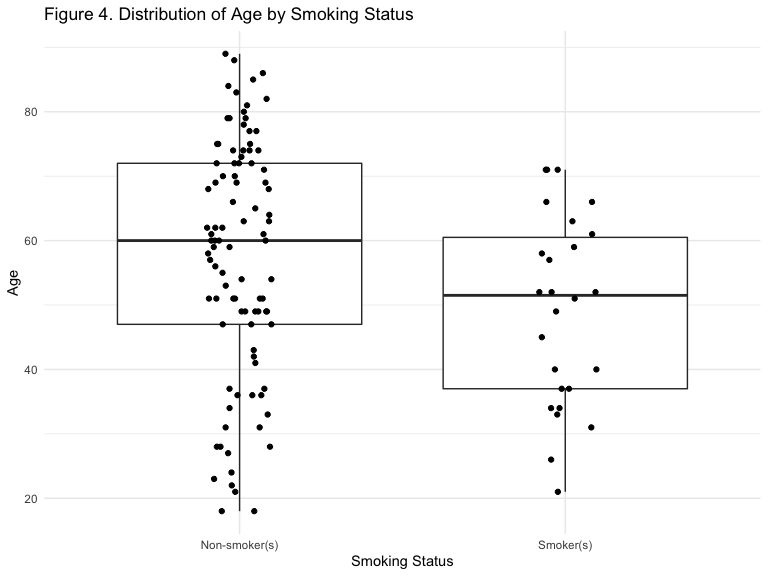
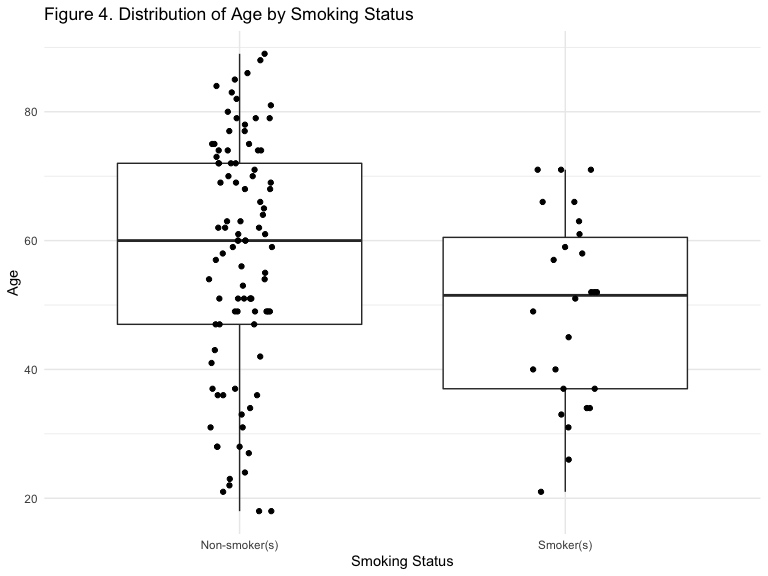
Commit 4

diff --git a/Analysis-Plan.md b/Analysis-Plan.md
@@ -22,16 +22,17 @@ As such, my research question is as follows:
 
 ### The dataset
 
-Baseline data collection for this study took place between 2019. Data
-collection methods included: surveys with residents, focus groups, and
-environmental assessments. The surveys distributed to study participants
-assessed perceptions of housing quality, smoking behaviors, perceptions
-of the smoke-free housing policy, exposure to secondhand smoke, social
-connectedness, psychosocial outcomes and chronic disease outcomes. As a
-result of the data collection process, 124 resident surveys were
-collected at the Betances site. The data used in this analysis is the
+Baseline data collection for this study took place between 2018 and
+2019. Data collection methods included: surveys with residents, focus
+groups, and environmental assessments. The surveys distributed to study
+participants assessed perceptions of housing quality, smoking behaviors,
+perceptions of the smoke-free housing policy, exposure to secondhand
+smoke, social connectedness, psychosocial outcomes and chronic disease
+outcomes. As a result of the data collection process, 124 resident
+surveys were collected at the Betances site and 213 resident surveys
+were collected at SoBRO housing. The data used in this analysis is the
 survey data collected. \* The data was initially sorted and cleaned in
-Excel. Then, the data was cleaned in R using R studio. A total of 124
+Excel. Then, the data was cleaned in R using R studio. A total of 337
 respondents are included in the survey data.
 
 ### Inclusion/Exclusion Criteria

diff --git a/Data-Cleaning-Coding.md b/Data-Cleaning-Coding.md
@@ -13,7 +13,7 @@ SurveyData =
     ## * PSS_8 -> PSS_8...108
     ## * PSS_8 -> PSS_8...109
 
-### Data Cleaning and Recoding
+### Data Cleaning and Recoding (Betances Data)
 
 ``` r
 SurveyData =
